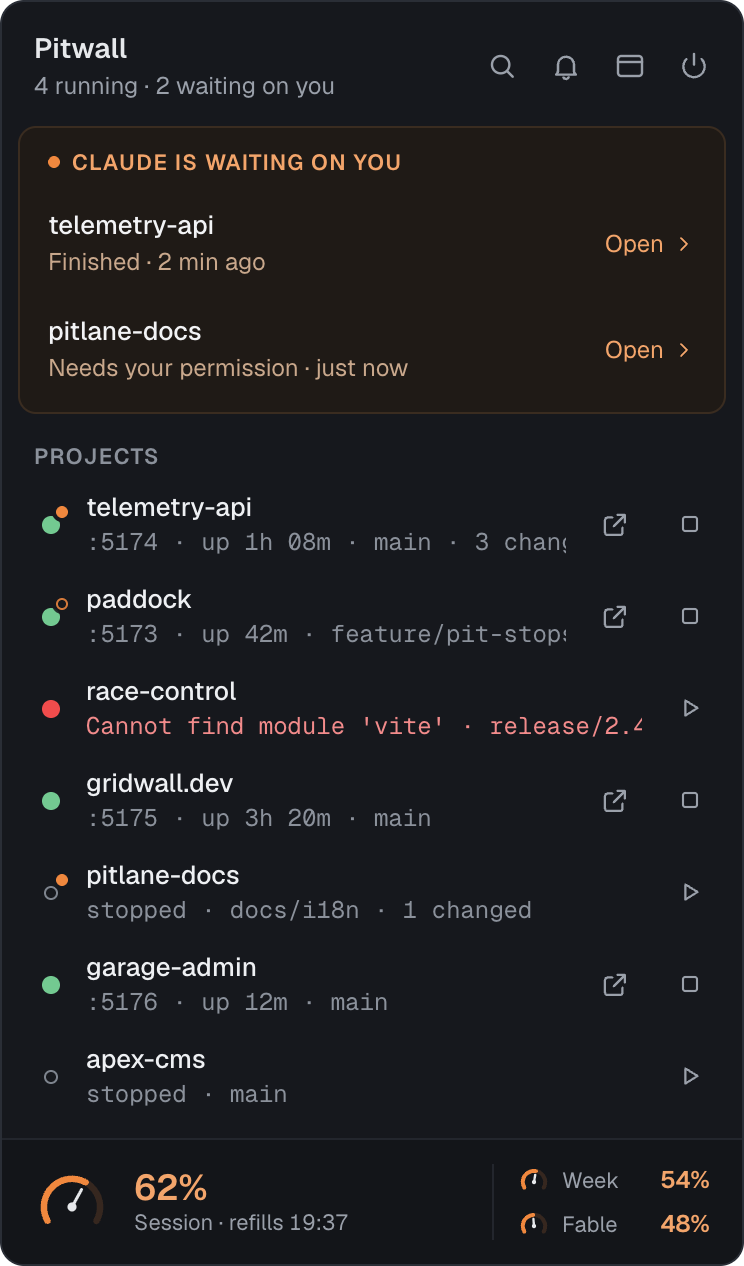
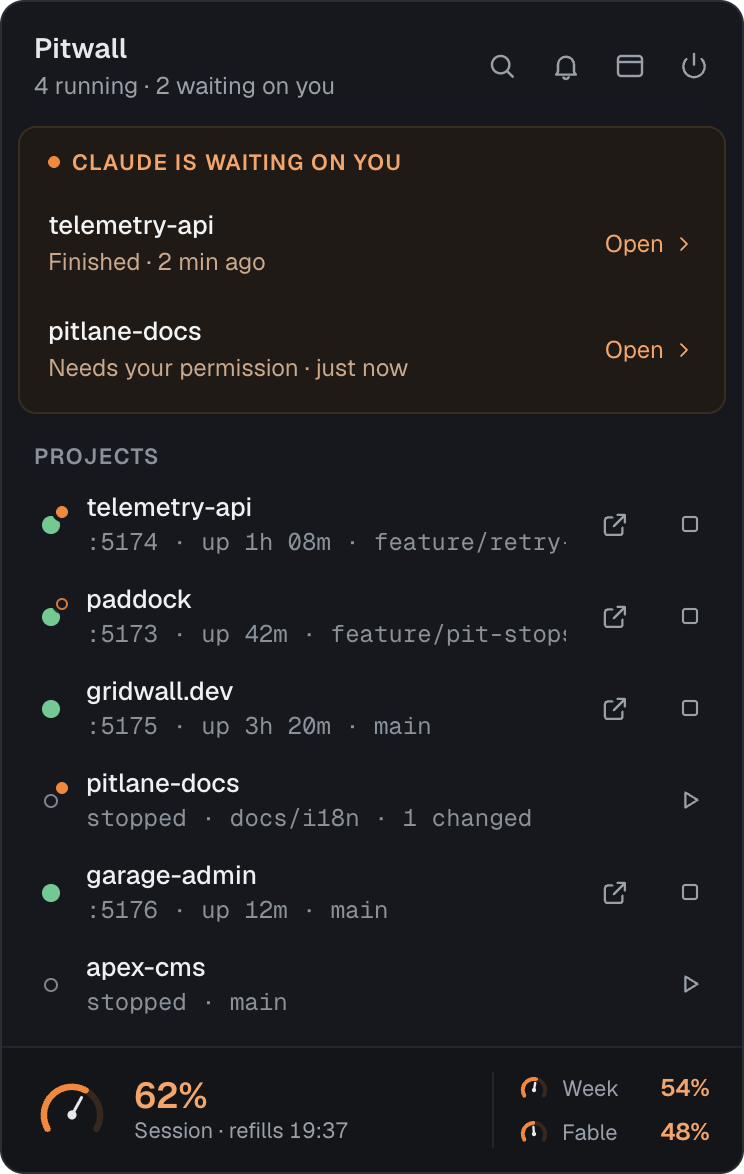
docs(readme): the README's pictures were shot again from 1.16.0 [skip ci]

diff --git a/README.md b/README.md
@@ -38,7 +38,7 @@ whole process tree with it. A build, a worker or the tests can be saved as comma
 marked "Ask before running" waits for your yes.
 
 <p align="center">
-  <img src=".github/readme/popover.png" width="320" alt="The menu bar popover: the projects Claude is waiting on you in, then every project with its port, uptime and branch, and what is left of Claude's limits">
+  <img src=".github/readme/popover.png" width="320" alt="The menu bar popover: the projects Claude is waiting on you in, then the favourite and running ones with their port, uptime and branch, and what is left of Claude's limits">
 </p>
 
 ### Know the moment it's your turn
